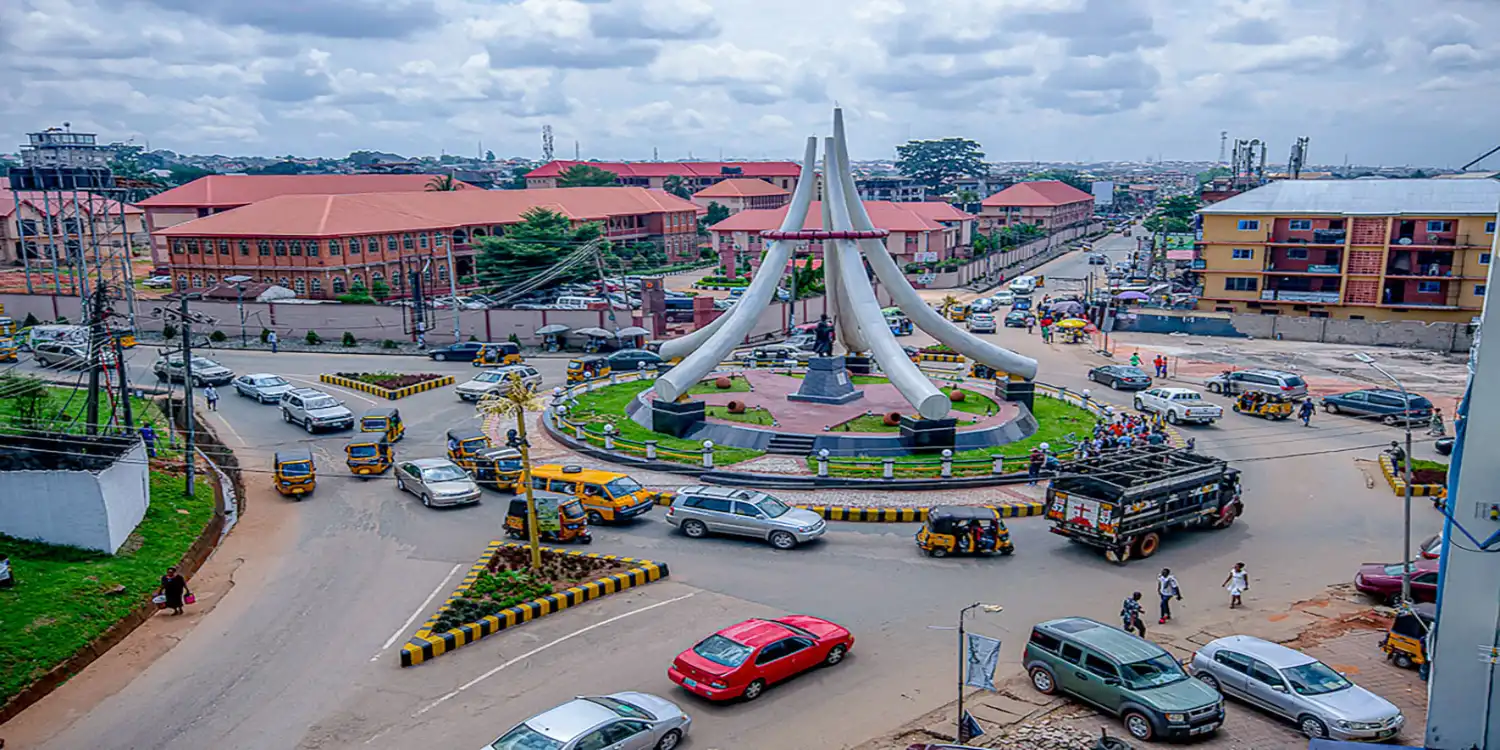
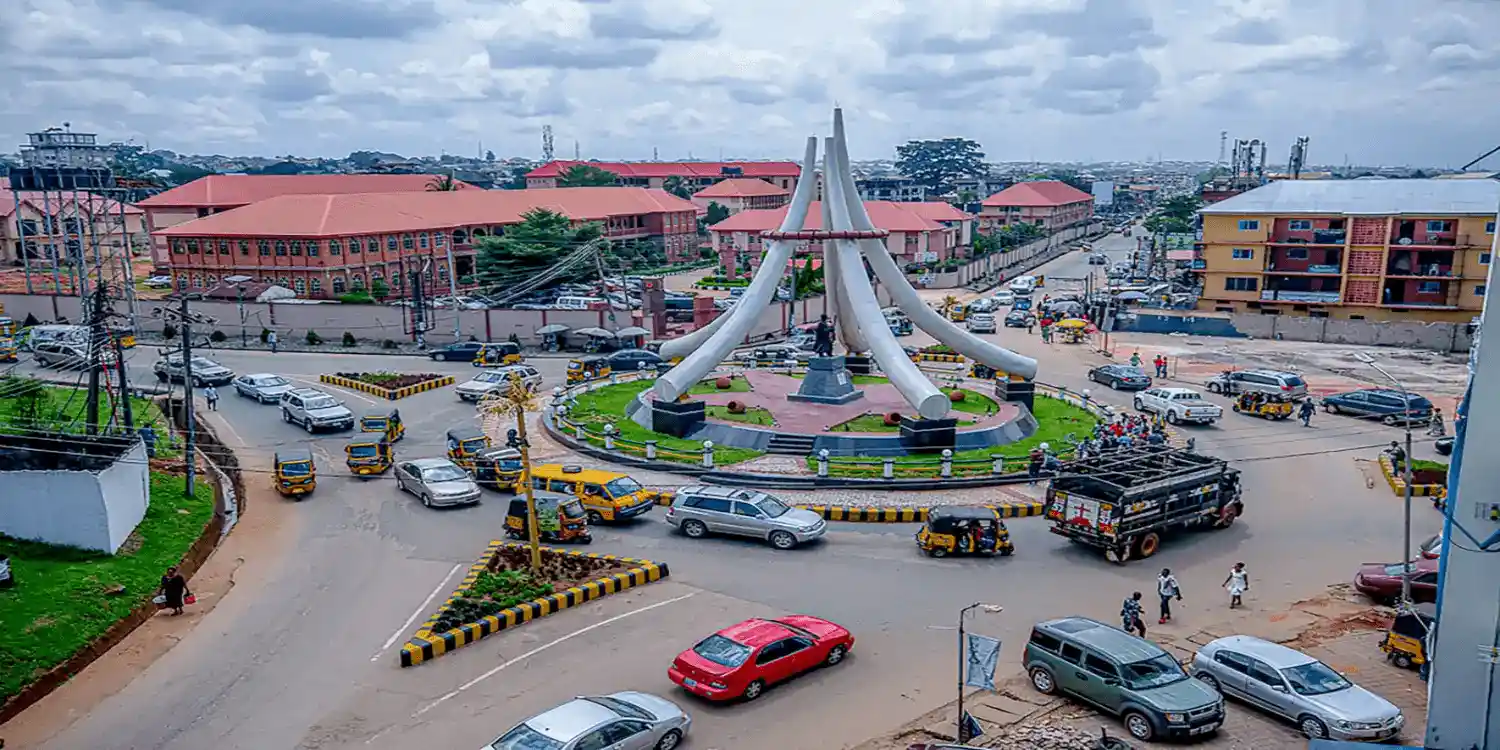
final week 3 assignment

diff --git a/place.html b/place.html
@@ -3,7 +3,7 @@
 <head>
     <meta charset="UTF-8">
     <meta name="viewport" content="width=device-width, initial-scale=1.0">
-    <title>WDD 131 | Country Page | Nigeria</title>
+    <title>WDD 131 | Nigeria</title>
     <meta name="description" content="A country page about Nigeria for the WDD 131 Week 3 assignment.">
     <meta name="author" content="Adindu Chinweokwu Clementina">
     
